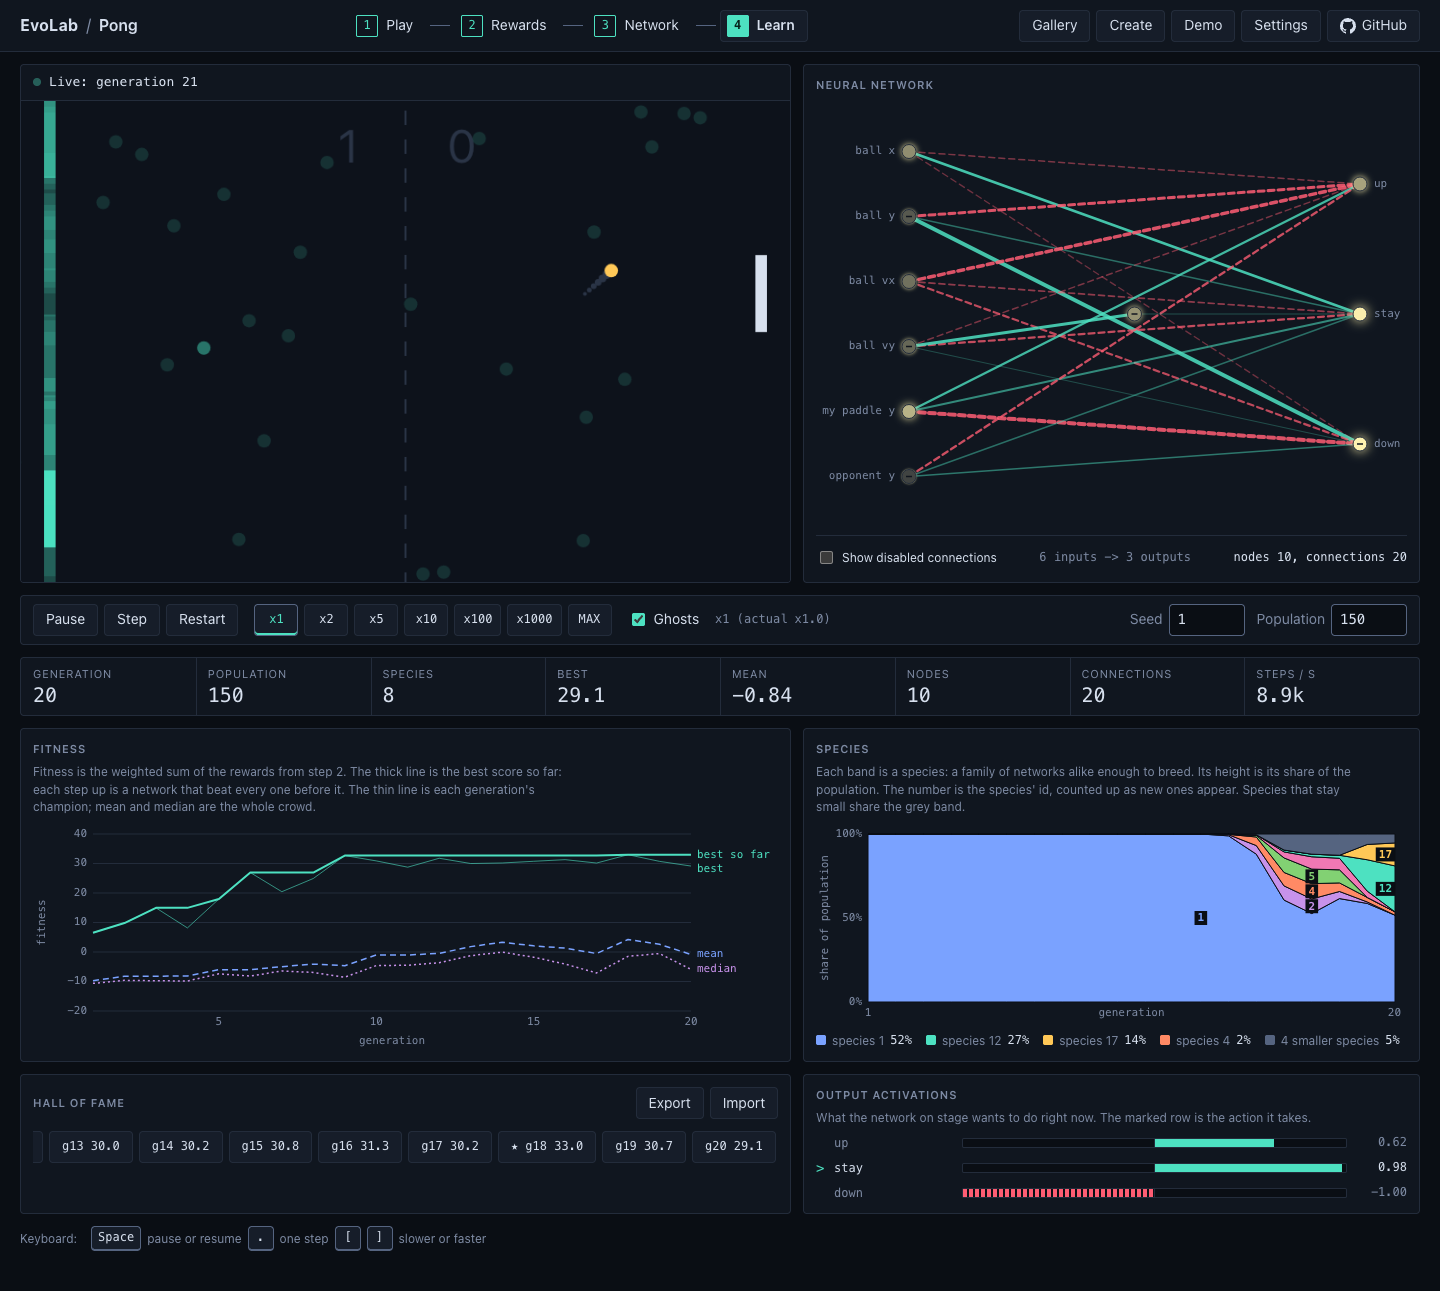
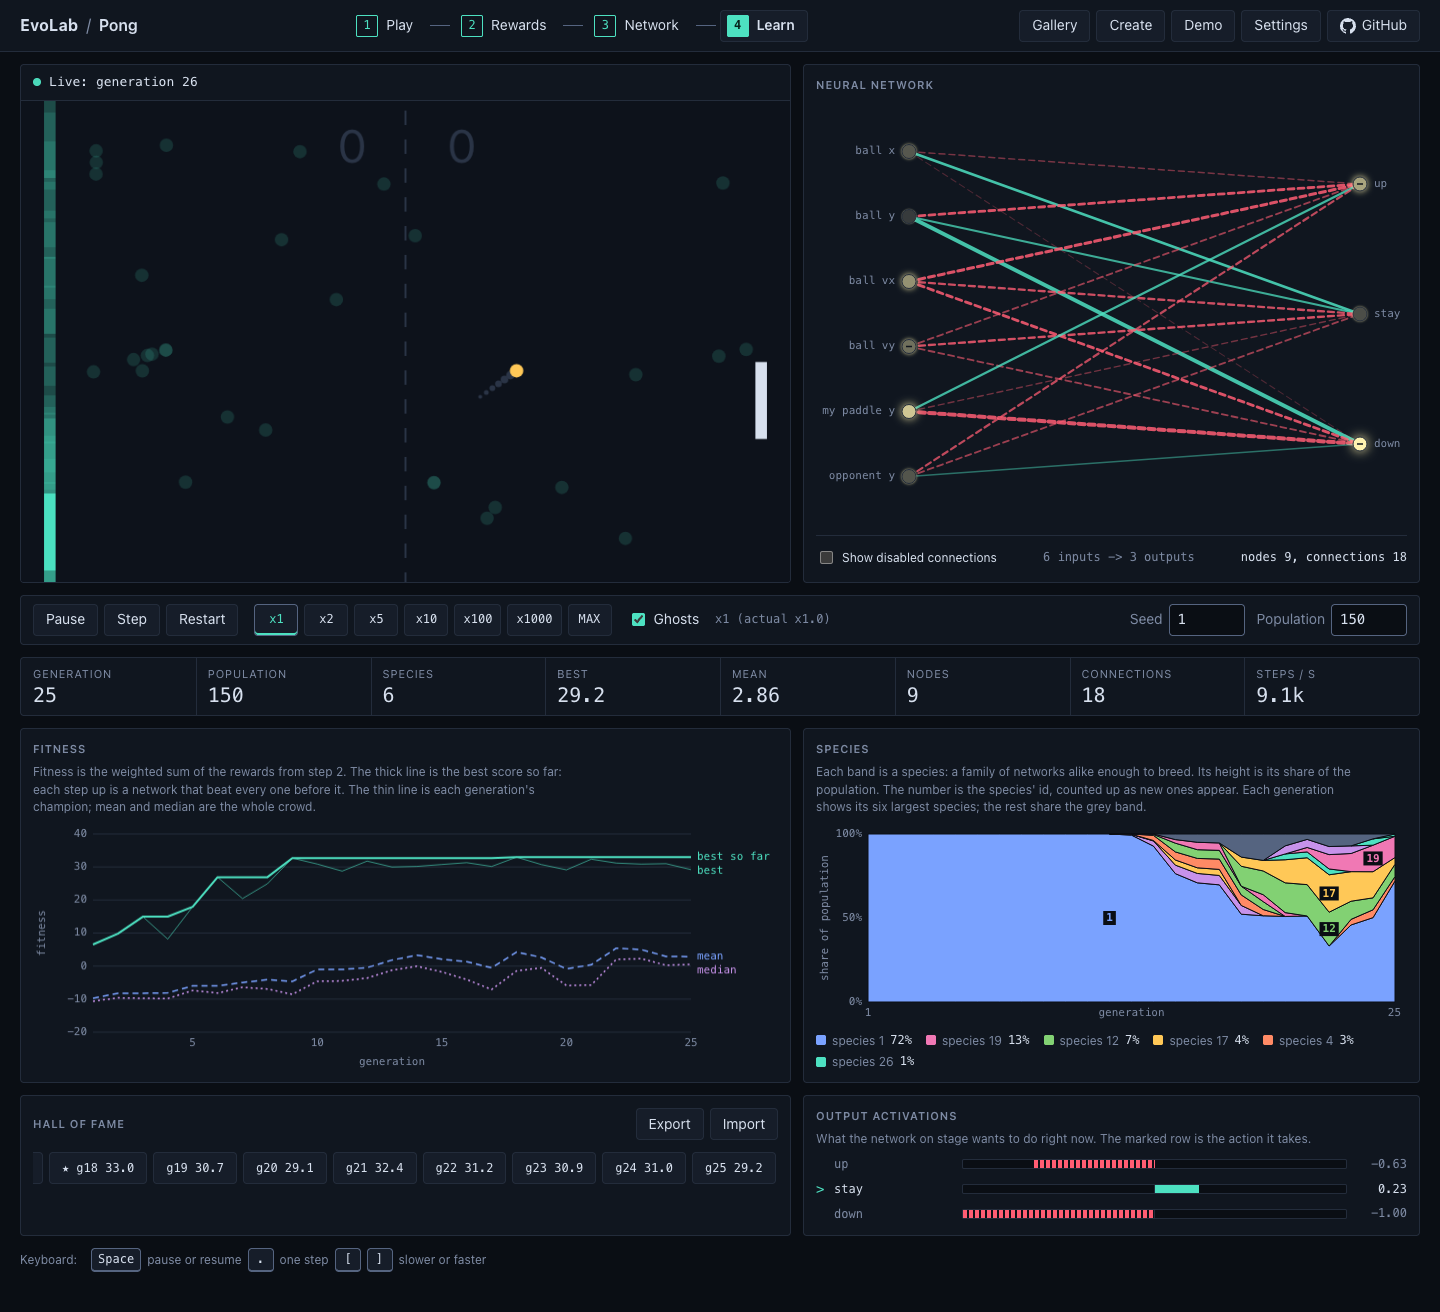
fix(viz): species chart keeps the largest species visible
- Each generation draws its own six largest species; only the rest are pooled into the grey band.
- The old rule kept one fixed set for the whole run (largest area, 6% threshold), so on long runs every kept species was dead and the grey band was 100%.
- Colours are assigned per species for life, avoiding species drawn in the same generation; the palette is reused across the run.
- The smoothing window shrinks towards both ends, so the legend reads the true shares of the latest generation.
- Regenerated the learn screenshots.

diff --git a/src/viz/scale.ts b/src/viz/scale.ts
@@ -45,14 +45,16 @@ export const OTHER = -1;
 
 /**
  * What the species chart draws. NEAT makes and loses species every few generations, and one band per species is unreadable:
- * only species that reach `minShare` of the population are kept (the `maxBands` largest of them, in order of first
- * appearance, oldest at the bottom), and everything else is pooled into one `OTHER` band on top. Shares are averaged over
- * neighbouring generations on long runs, so a band changes shape with the trend and not with every reshuffle.
- * rows[g][k] is the cumulative upper bound in [0, 1] of band ids[k] at generation g; the last band always ends at 1.
+ * every generation draws its own `top` largest species (ties go to the older one) and pools the rest into one `OTHER` band
+ * on top, so that band is never more than what the largest leave over. Bands are stacked in order of first appearance,
+ * oldest at the bottom. Shares are averaged over neighbouring generations on long runs, so a band changes shape with the
+ * trend and not with every reshuffle; the window shrinks towards both ends, so the first and last columns are exact.
+ * rows[g][k] is the cumulative upper bound in [0, 1] of band ids[k] at generation g (a species outside that generation's
+ * largest has no height there); the last band ends at 1.
  * `pooled` counts the species alive in the last generation that are inside `OTHER`.
  */
 export function speciesBands(
-  history: readonly { species: { id: number; size: number }[] }[], { minShare = 0.06, maxBands = 7 } = {},
+  history: readonly { species: { id: number; size: number }[] }[], { top = 6 } = {},
 ): { ids: number[]; rows: number[][]; pooled: number } {
   const all: number[] = [], index = new Map<number, number>(), n = history.length;
   for (const g of history) for (const s of g.species) if (!index.has(s.id)) { index.set(s.id, all.length); all.push(s.id); }
@@ -63,36 +65,43 @@ export function speciesBands(
   });
   // Centred moving average; the same window for every species, so a column still sums to 1.
   const radius = Math.min(4, Math.floor(n / 12));
-  const smooth = radius === 0 ? raw : raw.map((_, g) => {
-    const a = Math.max(0, g - radius), b = Math.min(n - 1, g + radius);
-    return all.map((_, k) => { let sum = 0; for (let i = a; i <= b; i++) sum += raw[i]![k]!; return sum / (b - a + 1); });
+  const smooth = raw.map((own, g) => {
+    const r = Math.min(radius, g, n - 1 - g);
+    return r === 0 ? own : all.map((_, k) => { let sum = 0; for (let i = g - r; i <= g + r; i++) sum += raw[i]![k]!; return sum / (2 * r + 1); });
   });
-  const peak = all.map((_, k) => smooth.reduce((m, row) => Math.max(m, row[k]!), 0));
-  const area = all.map((_, k) => smooth.reduce((sum, row) => sum + row[k]!, 0));
-  const kept = all.map((_, k) => k).filter((k) => peak[k]! >= minShare).sort((a, b) => area[b]! - area[a]!).slice(0, maxBands).sort((a, b) => a - b);
-  const other = kept.length < all.length;
-  const rows = smooth.map((row) => {
-    let acc = 0;
-    const out = kept.map((k) => (acc += row[k]!));
-    if (other) out.push(1); else if (out.length) out[out.length - 1] = 1;
+  let other = false;
+  const largest = smooth.map((row) => {
+    const alive = row.flatMap((share, k) => (share > 0 ? [k] : []));
+    other ||= alive.length > top;
+    return new Set(alive.sort((a, b) => row[b]! - row[a]! || a - b).slice(0, top));
+  });
+  const kept = all.flatMap((_, k) => (largest.some((set) => set.has(k)) ? [k] : []));
+  const rows = smooth.map((row, g) => {
+    let acc = 0, last = -1;
+    const out = kept.map((k, j) => { if (largest[g]!.has(k)) { acc += row[k]!; last = j; } return acc; });
+    // Without a pooled band the largest species fill the column: close it at exactly 1, rounding aside.
+    if (other) out.push(1); else if (last >= 0) out.fill(1, last);
     return out;
   });
-  const shown = new Set(kept.map((k) => all[k]!));
-  return { ids: [...kept.map((k) => all[k]!), ...(other ? [OTHER] : [])], rows, pooled: history.at(-1)?.species.filter((s) => s.size > 0 && !shown.has(s.id)).length ?? 0 };
+  const now = smooth.at(-1)?.filter((share) => share > 0).length ?? 0;
+  return { ids: [...kept.map((k) => all[k]!), ...(other ? [OTHER] : [])], rows, pooled: now - (largest.at(-1)?.size ?? 0) };
 }
 
 /**
  * Palette slots for the bands in `ids`. A species keeps the slot it was first given (`slots` outlives the call), and a new
- * one takes a slot that no band beside it uses. At most `palette` real ids at a time.
+ * one takes a slot that no band drawn in the same generation uses.
  */
-export function assignColours(ids: readonly number[], slots: Map<number, number>, palette: number): void {
-  const used = new Set(ids.flatMap((id) => (slots.has(id) ? [slots.get(id)!] : [])));
-  for (const id of ids) {
-    if (id === OTHER || slots.has(id) || used.size >= palette) continue;
+export function assignColours(ids: readonly number[], rows: readonly number[][], slots: Map<number, number>, palette: number): void {
+  const drawn = (row: number[], k: number) => row[k]! > (k === 0 ? 0 : row[k - 1]!);
+  ids.forEach((id, k) => {
+    if (id === OTHER || slots.has(id)) return;
+    const used = new Set<number>();
+    for (const row of rows) if (drawn(row, k)) ids.forEach((o, j) => { if (slots.has(o) && drawn(row, j)) used.add(slots.get(o)!); });
+    // ponytail: with every slot taken by a species it has met over its life, it shares its own id's slot; the id on the band tells them apart.
     let s = id % palette;
-    while (used.has(s)) s = (s + 1) % palette;
-    slots.set(id, s); used.add(s);
-  }
+    for (let i = 0; i < palette && used.has(s); i++) s = (s + 1) % palette;
+    slots.set(id, s);
+  });
 }
 
 /** The highest value so far at each index: the line that answers "is it improving?". `restart(i)` begins a new record at i. */

diff --git a/src/viz/stackedArea.ts b/src/viz/stackedArea.ts
@@ -4,10 +4,10 @@ import { assignColours, OTHER } from './scale';
 const PAD = { l: 52, r: 12, t: 10, b: 22 }, LABEL_MIN_HEIGHT = 14, PALETTE = 7;
 
 /**
- * Stacked population shares, one band per species that matters and one grey band for the rest (`speciesBands`). A band is
- * never told apart by hue alone: it carries its id on the chart and in the legend below. Spec section 11.4.
- * `rows` may be a sample of the run; `total` is the real number of generations (axis label, data-points); `pooled` is how
- * many species the grey band holds now.
+ * Stacked population shares, one band per species among a generation's largest and one grey band for the rest
+ * (`speciesBands`). A band is never told apart by hue alone: it carries its id on the chart and in the legend below. Spec
+ * section 11.4. `rows` may be a sample of the run; `total` is the real number of generations (axis label, data-points);
+ * `pooled` is how many species the grey band holds now.
  */
 export function createStackedArea(opts: { testid: string; title: string; note: string }): { el: HTMLElement; setData(ids: number[], rows: number[][], total?: number, pooled?: number): void } {
   let ids: number[] = [], rows: number[][] = [], total = 0, legendKey = '';
@@ -33,17 +33,26 @@ export function createStackedArea(opts: { testid: string; title: string; note: s
     const y = (share: number) => PAD.t + (1 - share) * plotH;
     const top = (g: number, k: number) => rows[g]![k]!, bottom = (g: number, k: number) => (k === 0 ? 0 : rows[g]![k - 1]!);
     const colour = (id: number) => (id === OTHER ? c.token('--line-strong') : c.token(`--species-${slots.get(id)! + 1}`));
+    ctx.strokeStyle = bg; ctx.lineWidth = 1; ctx.lineJoin = 'round';
     for (let k = 0; k < ids.length; k++) {
-      ctx.beginPath();
-      if (n === 1) ctx.rect(PAD.l, y(top(0, k)), plotW, y(bottom(0, k)) - y(top(0, k)));
-      else {
-        ctx.moveTo(x(0), y(top(0, k)));
-        for (let g = 1; g < n; g++) ctx.lineTo(x(g), y(top(g, k)));
-        for (let g = n - 1; g >= 0; g--) ctx.lineTo(x(g), y(bottom(g, k)));
-        ctx.closePath();
+      ctx.fillStyle = colour(ids[k]!);
+      // A species is drawn only over the generations where it has a band, and tapers to nothing on either side.
+      for (let a = 0; a < n; a++) {
+        if (!(top(a, k) > bottom(a, k))) continue;
+        let b = a;
+        while (b + 1 < n && top(b + 1, k) > bottom(b + 1, k)) b++;
+        const from = Math.max(a - 1, 0), to = Math.min(b + 1, n - 1);
+        ctx.beginPath();
+        if (n === 1) ctx.rect(PAD.l, y(top(0, k)), plotW, y(bottom(0, k)) - y(top(0, k)));
+        else {
+          ctx.moveTo(x(from), y(top(from, k)));
+          for (let g = from + 1; g <= to; g++) ctx.lineTo(x(g), y(top(g, k)));
+          for (let g = to; g >= from; g--) ctx.lineTo(x(g), y(bottom(g, k)));
+          ctx.closePath();
+        }
+        ctx.fill(); ctx.stroke();                    // the stroke is a hairline between neighbours
+        a = b;
       }
-      ctx.fillStyle = colour(ids[k]!); ctx.fill();
-      ctx.strokeStyle = bg; ctx.lineWidth = 1; ctx.lineJoin = 'round'; ctx.stroke();   // a hairline between neighbours
     }
     // Each species carries its id where its band is thickest, if the id fits inside it.
     ctx.textAlign = 'center'; ctx.font = `bold 11px ${mono}`;
@@ -72,18 +81,19 @@ export function createStackedArea(opts: { testid: string; title: string; note: s
     ctx.save(); ctx.translate(9, PAD.t + plotH / 2); ctx.rotate(-Math.PI / 2); ctx.fillText('share of population', 0, 0); ctx.restore();
   }
 
-  /** The bands alive now, largest share first, with what the numbers mean. */
+  /** The bands of the latest generation, largest share first and the grey band last, with what the numbers mean. */
   function renderLegend(pooled: number): void {
     const last = rows.at(-1) ?? [];
-    const items = ids.map((id, k) => ({ id, share: Math.round((last[k]! - (k === 0 ? 0 : last[k - 1]!)) * 100) }))
-      .filter((b) => b.share >= 1).sort((a, b) => Number(a.id === OTHER) - Number(b.id === OTHER) || b.share - a.share);
+    const items = ids.map((id, k) => ({ id, height: last[k]! - (k === 0 ? 0 : last[k - 1]!) })).filter((b) => b.height > 0)
+      .sort((a, b) => Number(a.id === OTHER) - Number(b.id === OTHER) || b.height - a.height)
+      .map((b) => ({ id: b.id, share: b.height < 0.005 ? '<1%' : `${Math.round(b.height * 100)}%` }));
     const key = items.map((b) => `${b.id}:${b.share}`).join() + `|${pooled}`;
     if (key === legendKey) return;
     legendKey = key;
     legend.replaceChildren(...items.map((b) => {
       const li = document.createElement('li'), swatch = document.createElement('i'), share = document.createElement('span');
       swatch.style.background = b.id === OTHER ? 'var(--line-strong)' : `var(--species-${slots.get(b.id)! + 1})`;
-      share.className = 'num'; share.textContent = `${b.share}%`;
+      share.className = 'num'; share.textContent = b.share;
       li.append(swatch, b.id === OTHER ? `${pooled} smaller species` : `species ${b.id}`, share);
       return li;
     }));
@@ -94,7 +104,7 @@ export function createStackedArea(opts: { testid: string; title: string; note: s
     setData(i, r, t = r.length, pooled = 0) {
       if (t < total) slots.clear();                  // a new run numbers its species from the start again
       ids = i; rows = r; total = t;
-      assignColours(ids, slots, PALETTE);
+      assignColours(ids, rows, slots, PALETTE);
       c.canvas.dataset.points = String(t); c.canvas.dataset.bands = String(ids.length);
       renderLegend(pooled);
       c.redraw();

diff --git a/src/viz/scale.test.ts b/src/viz/scale.test.ts
@@ -67,18 +67,49 @@ describe('running best', () => {
 
 describe('species bands', () => {
   const gen = (...sizes: number[]) => ({ species: sizes.flatMap((size, i) => (size > 0 ? [{ id: i + 1, size }] : [])) });
-  it('keeps the big species in order of first appearance and pools the small ones into "other" on top', () => {
-    const b = speciesBands([gen(60, 30, 4, 3, 3), gen(50, 40, 5, 5, 0)], { minShare: 0.1 });
+  /** Band heights of generation g, by id. */
+  const heights = (b: { ids: number[]; rows: number[][] }, g: number) =>
+    new Map(b.ids.map((id, k) => [id, +(b.rows[g]![k]! - (k === 0 ? 0 : b.rows[g]![k - 1]!)).toFixed(6)]));
+  it('keeps the largest species in order of first appearance and pools the rest into "other" on top', () => {
+    const b = speciesBands([gen(60, 30, 4, 3, 3), gen(50, 40, 5, 5, 0)], { top: 2 });
     expect(b.ids).toEqual([1, 2, OTHER]);
     expect(b.rows[0]!.map((v) => +v.toFixed(4))).toEqual([0.6, 0.9, 1]);
     expect(b.rows[1]!.map((v) => +v.toFixed(4))).toEqual([0.5, 0.9, 1]);
     expect(b.pooled).toBe(2);                        // species 3 and 4 are alive in the last generation
   });
-  it('has no "other" band when nothing is pooled, and caps the number of bands', () => {
+  it('has no "other" band when nothing is pooled', () => {
     expect(speciesBands([gen(50, 50)]).ids).toEqual([1, 2]);
-    const many = speciesBands([gen(...new Array<number>(20).fill(5))], { minShare: 0.01, maxBands: 7 });
-    expect(many.ids).toHaveLength(8);
-    expect(many.pooled).toBe(13);
+  });
+  it('many equal small species: the top six stay visible, "other" is exactly what they leave over', () => {
+    const b = speciesBands(Array.from({ length: 3 }, () => gen(...new Array<number>(20).fill(5))));
+    expect(b.ids).toEqual([1, 2, 3, 4, 5, 6, OTHER]);          // ties go to the older species, the same ones every generation
+    for (let g = 0; g < 3; g++) expect([...heights(b, g).values()]).toEqual([0.05, 0.05, 0.05, 0.05, 0.05, 0.05, 0.7]);
+    expect(b.pooled).toBe(14);
+  });
+  it('one dominant species: it and the next five are drawn, "other" is the sliver that is left', () => {
+    const b = speciesBands([gen(90, 2, 2, 2, 2, 1, 1)]);
+    expect(b.ids).toEqual([1, 2, 3, 4, 5, 6, OTHER]);
+    expect(heights(b, 0).get(1)).toBe(0.9);
+    expect(heights(b, 0).get(OTHER)).toBe(0.01);
+    expect(b.pooled).toBe(1);
+  });
+  it('species dying and new ones appearing: each generation shows its own largest, never one fixed set', () => {
+    // The old rule kept the species with the largest area over the whole run: by the last generation they were all dead
+    // and the grey band was 100% of the chart.
+    const history = [gen(50, 30, 20), gen(0, 40, 35, 25), gen(0, 0, 0, 10, 45, 45), gen(0, 0, 0, 0, 20, 30, 50)];
+    const b = speciesBands(history, { top: 2 });
+    expect(b.ids).toEqual([1, 2, 3, 5, 6, 7, OTHER]);
+    const want = [{ 1: 0.5, 2: 0.3 }, { 2: 0.4, 3: 0.35 }, { 5: 0.45, 6: 0.45 }, { 6: 0.3, 7: 0.5 }] as Record<number, number>[];
+    want.forEach((top, g) => {
+      const h = heights(b, g), sum = Object.values(top).reduce((a, v) => a + v, 0);
+      for (const id of b.ids) expect(h.get(id), `gen ${g} id ${id}`).toBeCloseTo(id === OTHER ? 1 - sum : top[id] ?? 0);
+    });
+    expect(b.pooled).toBe(1);                        // species 5
+  });
+  it('the last column is the last generation itself, so the legend reads true shares on a long smoothed run', () => {
+    const history = [...Array.from({ length: 59 }, () => gen(70, 30)), gen(0, 25, 60, 15)];
+    const h = heights(speciesBands(history, { top: 2 }), 59);
+    expect([h.get(1), h.get(2), h.get(3), h.get(OTHER)]).toEqual([0, 0.25, 0.6, 0.15]);
   });
   it('smooths long runs without leaving gaps: every column still fills 0..1', () => {
     const history = Array.from({ length: 60 }, (_, g) => (g % 2 ? gen(90, 10) : gen(10, 90)));
@@ -92,11 +123,19 @@ describe('species bands', () => {
   });
   it('gives a species one colour for good, and never shares it with a species shown beside it', () => {
     const slots = new Map<number, number>();
-    assignColours([1, 8, OTHER], slots, 7);          // 1 and 8 both want slot 1
+    assignColours([1, 8, OTHER], [[0.5, 0.9, 1]], slots, 7);          // 1 and 8 both want slot 1
     expect(slots.get(1)).toBe(1); expect(slots.get(8)).not.toBe(1);
     const eight = slots.get(8);
-    assignColours([8, 15, OTHER], slots, 7);
+    assignColours([8, 15, OTHER], [[0.5, 0.9, 1]], slots, 7);
     expect(slots.get(8)).toBe(eight); expect(slots.get(15)).not.toBe(eight);
     expect(slots.has(OTHER)).toBe(false);
+  });
+  it('colours a run with more species than the palette: every band has a slot, neighbours in a generation differ', () => {
+    // Generation g holds species g+1, g+2, g+3: 22 species over the run, three at a time.
+    const history = Array.from({ length: 20 }, (_, g) => ({ species: [1, 2, 3].map((d) => ({ id: g + d, size: 10 * d })) }));
+    const b = speciesBands(history), slots = new Map<number, number>();
+    assignColours(b.ids, b.rows, slots, 7);
+    expect(b.ids.every((id) => slots.get(id)! >= 0 && slots.get(id)! < 7)).toBe(true);
+    for (const g of history) expect(new Set(g.species.map((s) => slots.get(s.id))).size).toBe(3);
   });
 });

diff --git a/src/ui/panels/learn.ts b/src/ui/panels/learn.ts
@@ -40,7 +40,7 @@ export function createLearnPanel(session: Session, prefs: RunPrefs, start: () =>
   const species = createStackedArea({
     testid: 'species-chart', title: 'Species',
     note: 'Each band is a species: a family of networks alike enough to breed. Its height is its share of the population. '
-      + 'The number is the species\' id, counted up as new ones appear. Species that stay small share the grey band.',
+      + 'The number is the species\' id, counted up as new ones appear. Each generation shows its six largest species; the rest share the grey band.',
   });
   const rlPanels = createRlPanels(session);
   const discrete = spec.action.type === 'discrete';
